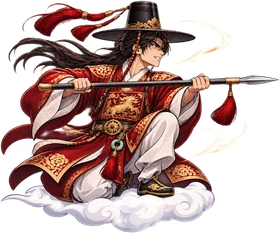
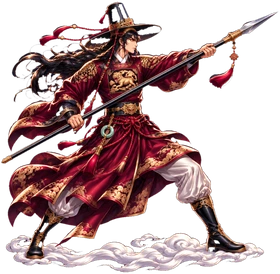
강림도령 원본 그림 달빛 극화체 교체, 창끝에서 탄 발사
Claude-Session: https://claude.ai/code/session_01X3WCR5Skc58i6ujNZho15h

diff --git a/game/geumeum/dokkaebi-shooter.html b/game/geumeum/dokkaebi-shooter.html
@@ -1793,8 +1793,9 @@ function rogueFire(n0) { // 그믐의 탑 축복: 기본 공격
   const c = nw[Math.floor(nw.length / 2)]; for (let j = 0; j < 0; j++) { const a = Math.atan2(c.vy, c.vx) + (j % 2 ? -1 : 1) * (0.16 + 0.08 * (j >> 1)), sp = Math.hypot(c.vx, c.vy); shots.push(Object.assign({}, c, { vx: Math.cos(a) * sp, vy: Math.sin(a) * sp, hit: c.hit ? new Map() : c.hit })); }
   if (rb('b_fast')) P.fcd /= Math.pow(1.15, rb('b_fast'));
 }
+const MUZ = { 22: [30, -50] }; // 기본 탄이 나가는 자리(그림의 무기 끝): 강림도령 창끝
 function fire0() {
-  const p = P.power, x = P.x + 14, y = P.y; sfx.shot(); P.muz = 0.07;
+  const p = P.power, mo = MUZ[P.ch] || [0, 0], x = P.x + 14 + mo[0], y = P.y + mo[1]; sfx.shot(); P.muz = 0.07;
   if (P.ch >= 6) { kitFire(P.ch, p, x, y, 1); P.fcd = CH[P.ch].kit.rate; return; }
   if (P.ch === 0) { const n = p + 1; for (let i = 0; i < n; i++) { const a = (i - (n - 1) / 2) * 0.09; ps(x + 8, y - 13, Math.cos(a) * 560, Math.sin(a) * 560, 4, 1, 0); } P.fcd = 0.11; }
   else if (P.ch === 1) { for (let i = 0; i < p; i++) ps(x, y + (i - (p - 1) / 2) * 7, 760, 0, 3, 1.5, 1); P.fcd = 0.09; }
@@ -2626,7 +2627,7 @@ function draw() {
     if (P.power >= 4 && P.deadT <= 0) { ctx.globalCompositeOperation = 'lighter'; glow(CH[P.ch].glow || 'gold', P.x, P.y, 34 + Math.sin(G.time * 5) * 4, 0.35); ctx.globalCompositeOperation = 'source-over'; } // 힘 최대: 은은한 기운
     if (G.awake > 0) drawAwakeP();
     else if (!(P.inv > 0 && Math.floor(G.time * 16) % 2)) drawPlayer(P.x, P.y, P.ch);
-    if (P.muz > 0) { ctx.globalCompositeOperation = 'lighter'; glow(CH[P.ch].glow, P.x + (P.ch === 0 ? 26 : 24), P.y - (P.ch === 0 ? 13 : 0), 14 + P.muz * 220, 0.9); ctx.globalCompositeOperation = 'source-over'; }
+    if (P.muz > 0) { ctx.globalCompositeOperation = 'lighter'; glow(CH[P.ch].glow, P.x + (P.ch === 0 ? 26 : 24) + ((typeof MUZ !== 'undefined' && MUZ[P.ch]) ? MUZ[P.ch][0] : 0), P.y - (P.ch === 0 ? 13 : 0) + ((typeof MUZ !== 'undefined' && MUZ[P.ch]) ? MUZ[P.ch][1] : 0), 14 + P.muz * 220, 0.9); ctx.globalCompositeOperation = 'source-over'; }
     { const g = Math.max(0, P.graze || 0) / 0.25; ctx.globalCompositeOperation = 'lighter'; glow('jade', P.x, P.y, 9 + g * 8, 0.5); ctx.globalCompositeOperation = 'source-over'; ctx.fillStyle = '#fff'; circ(P.x, P.y, 3 + g * 2); } // 맞는 곳(흰 점): 테두리 없이 작은 빛점
     if (P.charge > 0.12) { const full = P.charge >= chgT(); ctx.globalCompositeOperation = 'lighter'; glow(CH[P.ch].glow, P.x, P.y, 24 + P.charge * 34, 0.55); ctx.globalCompositeOperation = 'source-over'; ctx.strokeStyle = full ? '#ffe27a' : 'rgba(255,255,255,.7)'; ctx.lineWidth = full ? 3 : 2; ctx.beginPath(); ctx.arc(P.x, P.y, full ? 20 + Math.sin(G.time * 20) * 2 : 30 - P.charge * 16, -Math.PI / 2, -Math.PI / 2 + TAU * Math.min(1, P.charge / 0.6)); ctx.stroke(); }
   }

diff --git a/game/geumeum/README.md b/game/geumeum/README.md
@@ -364,3 +364,7 @@
 - ② 보조: 1.5초마다 탈 하나가 가까운 적에게 날아가 표식 → 1초 뒤 터짐.
 - ③ 스킬 역신 쫓기: 2초 무적, 둘레 적 밀어냄(대장 제외)·탄 지움. (게임에 플레이어 느려짐·묶임 상태가 없어 「풀기」는 해당 없음)
 - ④ 끝: 탈 넷이 앞으로 모여 큰 처용탈 폭발. 수치는 `AWK_CY`.
+
+### 강림도령 원본 그림 달빛 극화체 교체
+- `p22`·`cut22` 교체. 긴 창을 두 손으로 쥐고 오른쪽 위로 겨눈 자세(디자인에 따라 무기를 쥔 그림도 씀).
+- 기본 탄·쏠 때 빛이 창끝에서 나가게 `MUZ` 표(캐릭터별 탄 나가는 자리)를 두고 강림도령 [30, -50] 지정.
